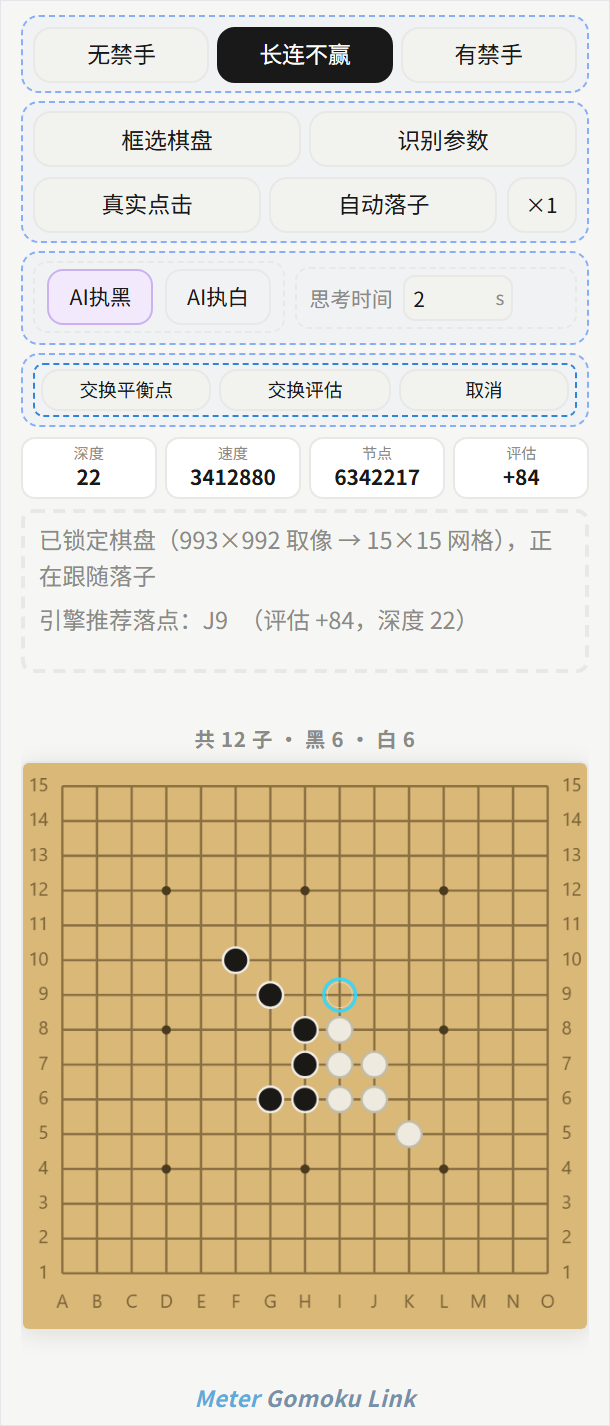
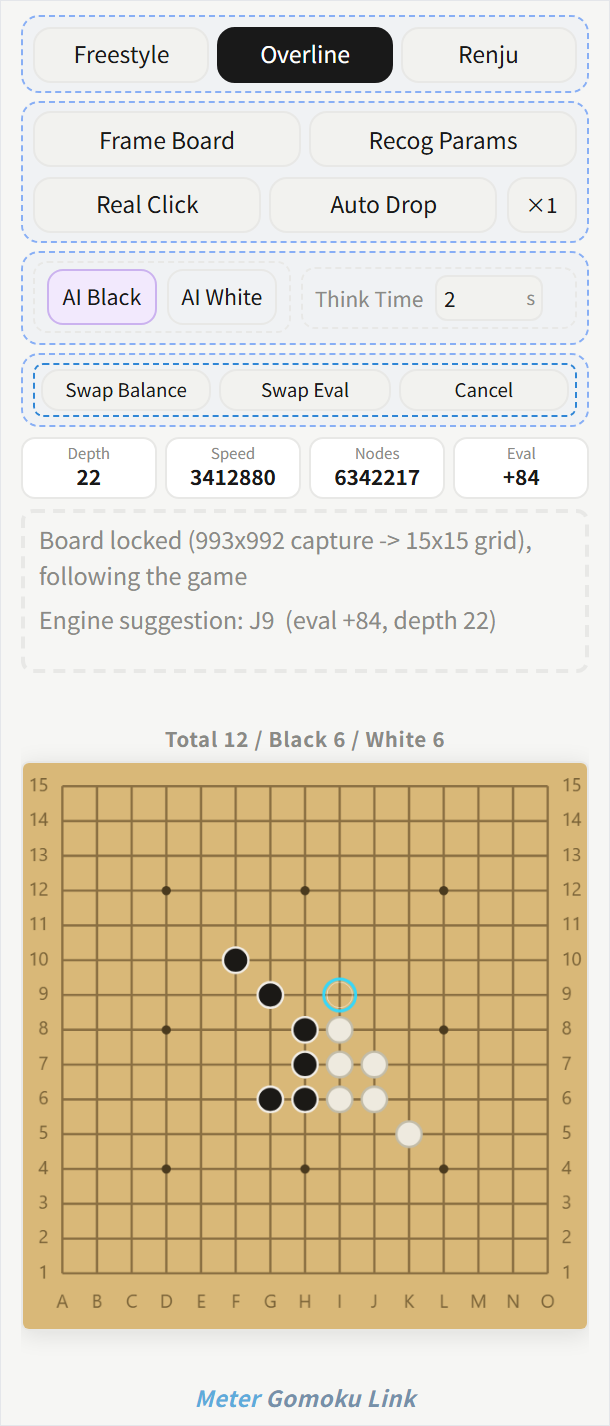
docs: English README free of Chinese, English UI screenshots
- README.md: all bilingual UI labels reduced to English-only
  (e.g. '连线 / Link' -> 'Link'), language switcher link now 'Chinese'.
- docs/images: all 7 screenshots re-rendered with the UI in English
  (lang=en); static [data-i18n] labels applied + language toggle shown
  as 'CN' for the shots.
- docs/images_zh: the Chinese-UI screenshots kept for README_zh.md,
  whose image links now point there.

diff --git a/README.md b/README.md
@@ -1,6 +1,6 @@
 # Meter Gomoku — Line Version
 
-**English** | [中文](README_zh.md)
+**English** | [Chinese](README_zh.md)
 
 A Windows desktop assistant for Gomoku / Renju. It **reads the board you are already playing on** — any third-party client, web board or emulator — keeps a mirror of the position, asks the bundled Rapfi engine for the best move, and can play it for you. This repository is the **Line (screen-recognition) version**: screen capture + always-on-top overlay + simulated clicks. It is not a stand-alone trainer.
 
@@ -27,11 +27,11 @@ A Windows desktop assistant for Gomoku / Renju. It **reads the board you are alr
 
 1. Run `Release/Meter Gomoku_Setup4.42.exe` and finish the installer.
 2. Start the app, then open your Gomoku client (or a web board) and get to the game screen.
-3. In the main window click **连线 / Link** in the top bar — a small window appears.
-4. Click **框选棋盘 / Frame Board** and drag a rectangle around the board *including its outer border*.
-5. Choose **AI 执黑 / AI 执白** (the side the engine plays), the rule and the thinking time, then switch on **自动落子 / Auto Drop**.
+3. In the main window click **Link** in the top bar — a small window appears.
+4. Click **Frame Board** and drag a rectangle around the board *including its outer border*.
+5. Choose **AI Black / AI White** (the side the engine plays), the rule and the thinking time, then switch on **Auto Drop**.
 
-The mirror board in the link window starts following the game immediately. If your client ignores simulated clicks, turn on **真实点击 / Real Click** (it borrows the physical cursor — see §5).
+The mirror board in the link window starts following the game immediately. If your client ignores simulated clicks, turn on **Real Click** (it borrows the physical cursor — see §5).
 
 ---
 
@@ -41,20 +41,20 @@ The mirror board in the link window starts following the game immediately. If yo
 
 | Area | What is there |
 |---|---|
-| **Top bar** | 连线 (open the link window) · 识图 (screen recognition) · 复盘 (review) · 历史 (history) · 关于 (about) · EN/中 (language) · 颜色 (palette) |
+| **Top bar** | Link (opens the link window) · Recognition (screen recognition) · Review · History · About · Language (toggles the UI between English and Chinese) · Palette |
 | **Left dock** | Engine dashboard (depth / speed / nodes / time / eval / best move) and the evaluation curve (black and white series, vertical axis auto-scales to about ±1200) |
 | **Board** | 15×15 board with coordinates on all four sides and a continue/pause key in the middle. Analysis marks are drawn straight on it |
-| **Right dock** | Cards: 对局设置 (game setup), 计算评估 (calculation & evaluation), 引擎仪表盘 (engine dashboard). Drag by the title bar to reorder, fold with the small dash, close with ✕. The layout is remembered |
-| **Bottom bar** | 分析计算 (live analysis) · ◀ ▶ (step through moves) · 重新开始 · 保存局面 · undo / redo / swap colours · AI 执子 (AI-side popover) · 设置 (add a card) |
+| **Right dock** | Cards: Game setup, Calculation & evaluation, Engine dashboard. Drag by the title bar to reorder, fold with the small dash, close with ✕. The layout is remembered |
+| **Bottom bar** | Live analysis · ◀ ▶ (step through moves) · Restart · Save position · undo / redo / swap colours · AI side (popover) · Settings (add a card) |
 
 ### Game setup
 
 ![Game setup card](docs/images/setup.png)
 
-* **Mode** — 对弈 (play) · 摆盘 (place stones) · 残局 (endgame problem).
-* **AI side** — 黑 / 白; both switches off means you play both sides.
+* **Mode** — Play · Place stones · Endgame problem.
+* **AI side** — Black / White; both switches off means you play both sides.
 * **Think time** — 0.2 s to 300 s. The same value is used by the link window; the two are always in step.
-* **Rule** — 无禁手 (freestyle) · 无禁手 · 长连不赢 (overline does not win) · 连珠 (Renju, forbidden moves).
+* **Rule** — Freestyle · Overline (a six-in-a-row does not win) · Renju (forbidden moves).
 * **Engine** — thread count and hash size. The maximum thread count is chosen from the real topology (physical cores minus two, so recognition and the system keep breathing room); hash is memory-adaptive. Both are persisted, so the next launch starts where you left off.
 * **Board display** — move numbers on stones, hover preview box.
 * **Position code** — copy / paste / load the whole position as one string.
@@ -65,15 +65,15 @@ The mirror board in the link window starts following the game immediately. If yo
 
 | Function | What it does |
 |---|---|
-| **计算 / Calc** | One deep search of the current position; the best point is marked on the board. The key toggles to 停止计算 |
-| **多点分析 / Multi-point** | Returns *N* candidates (2–8, default 4); each ring carries its rank and score |
-| **平衡点 / Balance** | Runs the engine's native **paired** balance search and returns points where neither side has a clear edge, together with the balance engine's own score. `\|eval\| ≤ 50` is what counts as balanced (ScalingFactor = 200, so win rate = sigmoid(eval/200)) |
-| **点数 / Points** | How many balance points to return (1–6). An empty board is fixed at 3 — Black 1 at the centre, White 2 and Black 3 given jointly by one paired search |
-| **扫描防守 / Defend scan** | Scores every empty point in a 9×9 neighbourhood: **W = moves to win, L = moves to lose**, badge colour runs from teal (safe) to red (dangerous). Re-scans automatically after each move |
-| **前瞻 / Lookahead, VCF, VCT** | Forced-line tools. Lookahead plays the position forward until five in a row actually appears; VCF only uses consecutive fours; VCT adds live threes |
-| **教练 / Coach** | Four-colour square hints while it is your turn (best / good / fair / poor); they vanish when you move |
-| **分析计算 / Live analysis** | Keeps deepening in the background and lays out the engine's current list; your move or undo restarts the session |
-| **清除标记 / Clear marks** | Erases every mark this card leaves on the board, without touching the position |
+| **Calc** | One deep search of the current position; the best point is marked on the board. The key toggles to Stop |
+| **Multi-point** | Returns *N* candidates (2–8, default 4); each ring carries its rank and score |
+| **Balance** | Runs the engine's native **paired** balance search and returns points where neither side has a clear edge, together with the balance engine's own score. `\|eval\| ≤ 50` is what counts as balanced (ScalingFactor = 200, so win rate = sigmoid(eval/200)) |
+| **Points** | How many balance points to return (1–6). An empty board is fixed at 3 — Black 1 at the centre, White 2 and Black 3 given jointly by one paired search |
+| **Defend scan** | Scores every empty point in a 9×9 neighbourhood: **W = moves to win, L = moves to lose**, badge colour runs from teal (safe) to red (dangerous). Re-scans automatically after each move |
+| **Lookahead, VCF, VCT** | Forced-line tools. Lookahead plays the position forward until five in a row actually appears; VCF only uses consecutive fours; VCT adds live threes |
+| **Coach** | Four-colour square hints while it is your turn (best / good / fair / poor); they vanish when you move |
+| **Live analysis** | Keeps deepening in the background and lays out the engine's current list; your move or undo restarts the session |
+| **Clear marks** | Erases every mark this card leaves on the board, without touching the position |
 
 ### Engine dashboard
 
@@ -83,19 +83,19 @@ The mirror board in the link window starts following the game immediately. If yo
 
 ---
 
-## 4. Screen recognition (识图)
+## 4. Screen recognition
 
 ![Recognition window](docs/images/vision.png)
 
-Open it from **识图** in the top bar. It turns a screenshot into a position code.
+Open it from **Recognition** in the top bar. It turns a screenshot into a position code.
 
-1. **上传图片 / Upload** (multi-select, up to 150) or **屏幕截图 / Screenshot** to capture a region.
-2. **裁剪 / Crop** — the crop box snaps to the board and leaves about 1/30 of the board as margin, so the outermost stone stays complete.
-3. **识别 / Recognize** — the result becomes a position code that can be copied, or loaded straight into practice.
-4. **修改 / Edit** — swap Black and White (click one of each), delete stones, add Black or White stones; `Ctrl+Z` undoes.
-5. **VC 模式 / VC mode** — for mate problems: Black and White counts may differ, adding stones is unlimited, and loading it switches to Endgame mode with the attacking side preset.
+1. **Upload** (multi-select, up to 150) or **Screenshot** to capture a region.
+2. **Crop** — the crop box snaps to the board and leaves about 1/30 of the board as margin, so the outermost stone stays complete.
+3. **Recognize** — the result becomes a position code that can be copied, or loaded straight into practice.
+4. **Edit** — swap Black and White (click one of each), delete stones, add Black or White stones; `Ctrl+Z` undoes.
+5. **VC mode** — for mate problems: Black and White counts may differ, adding stones is unlimited, and loading it switches to Endgame mode with the attacking side preset.
 
-**识别参数 / Recog Params** lays six thresholds directly on the panel and applies them while you drag:
+**Recog Params** lays six thresholds directly on the panel and applies them while you drag:
 
 | Parameter | Meaning |
 |---|---|
@@ -121,17 +121,17 @@ The link window is a separate top-level window, 304×712, always on top. It does
 
 | Control | What it does |
 |---|---|
-| **规则三键** | Freestyle / Overline / Renju — switches the endgame and forbidden-move rules used by the link window |
-| **框选棋盘 / Frame Board** | Drag a rectangle over the board on screen; recognition starts once the frame is set |
-| **识别参数 / Recog Params** | Swaps the button area for the six thresholds, applied live (see §6) |
-| **真实点击 / Real Click** | Uses the physical mouse cursor. **Off by default** — only needed for clients that accept nothing but real mouse input. While on it takes over your cursor |
-| **自动落子 / Auto Drop** | Thinks as soon as the opponent's move is seen and plays for you |
+| **Rule buttons** | Freestyle / Overline / Renju — switches the endgame and forbidden-move rules used by the link window |
+| **Frame Board** | Drag a rectangle over the board on screen; recognition starts once the frame is set |
+| **Recog Params** | Swaps the button area for the six thresholds, applied live (see §6) |
+| **Real Click** | Uses the physical mouse cursor. **Off by default** — only needed for clients that accept nothing but real mouse input. While on it takes over your cursor |
+| **Auto Drop** | Thinks as soon as the opponent's move is seen and plays for you |
 | **×1 / ×2 / ×3** | Clicks per move |
-| **AI 执黑 / AI 执白** | Mutually exclusive; the choice is mirrored into the main window immediately |
-| **思考时间 / Think time** | 0.2–300 s, one shared value |
-| **交换平衡点 / Swap Balance** | Opening balance points (see below) |
-| **交换评估 / Swap Eval** | Independent of the above: scores the current swap position with the *playing* engine, to help you decide whether swapping is worth it |
-| **取消 / Cancel** | Stops an in-flight balance / evaluation and clears the marks already drawn |
+| **AI Black / AI White** | Mutually exclusive; the choice is mirrored into the main window immediately |
+| **Think time** | 0.2–300 s, one shared value |
+| **Swap Balance** | Opening balance points (see below) |
+| **Swap Eval** | Independent of the above: scores the current swap position with the *playing* engine, to help you decide whether swapping is worth it |
+| **Cancel** | Stops an in-flight balance / evaluation and clears the marks already drawn |
 
 ### Status area
 
@@ -157,7 +157,7 @@ On an **empty board** the app uses the official opening book: the engine returns
 | 3 stones (5 moves) | 2 | 1 Black, 1 White | One **paired** balance search returns both points together |
 | More than 5 stones | — | — | Past the swap window; the app says so |
 
-Marks live inside the recognition frame: blue/purple rings with a number for the order of play, and they disappear once you have played those stones. Pressing **交换平衡点** cancels any selected AI side (they would interfere); if Auto Drop is on, the points are played in order automatically.
+Marks live inside the recognition frame: blue/purple rings with a number for the order of play, and they disappear once you have played those stones. Pressing **Swap Balance** cancels any selected AI side (they would interfere); if Auto Drop is on, the points are played in order automatically.
 
 ---
 
@@ -168,9 +168,9 @@ Marks live inside the recognition frame: blue/purple rings with a number for the
 One click replaces the button area with the six thresholds; the statistics row folds away and the text box below explains each parameter.
 
 * Dragging or typing applies the value **immediately** and also saves it, so the next launch remembers it.
-* **通用 / General** loads the defaults (200 / 50 / 96 / 33 / 96 / 33) — good for most boards.
-* **存档 / Save** and **读档 / Load** store the six values under a name (up to 50 presets, drawer with Load / All / Delete / Undo).
-* **应用 / Apply** saves and folds the panel; **取消 / Cancel** restores the values that were last applied, in the page *and* in the host.
+* **General** loads the defaults (200 / 50 / 96 / 33 / 96 / 33) — good for most boards.
+* **Save** and **Load** store the six values under a name (up to 50 presets, drawer with Load / All / Delete / Undo).
+* **Apply** saves and folds the panel; **Cancel** restores the values that were last applied, in the page *and* in the host.
 
 ---
 
@@ -178,9 +178,9 @@ One click replaces the button area with the six thresholds; the statistics row f
 
 | Rule | Five in a row | Forbidden |
 |---|---|---|
-| 无禁手 Freestyle | Wins, overline included | none |
-| 无禁手 · 长连不赢 Overline | Wins; **six or more in a row does not win** | none |
-| 连珠 Renju | Wins | overline, double-four, double-three (four-three is legal) |
+| Freestyle | Wins, overline included | none |
+| Overline | Wins; **six or more in a row does not win** | none |
+| Renju | Wins | overline, double-four, double-three (four-three is legal) |
 
 ---
 
@@ -198,11 +198,11 @@ One click replaces the button area with the six thresholds; the statistics row f
 | Symptom | Cause | Fix |
 |---|---|---|
 | The board is found but no stones appear | Frame is too tight, or the stones have very low contrast | Frame the board **with its border**, then try lower black/white offsets |
-| Too many or too few stones of one colour | Thresholds not tuned for this theme | Use 识别参数: black/white offset for the grey threshold, percent for the in-cell coverage |
-| Automatic dropping does nothing | The client only accepts real mouse input | Turn on **真实点击**; keep the window position fixed (the frame is geometry-locked) |
+| Too many or too few stones of one colour | Thresholds not tuned for this theme | Use Recog Params: set the black/white offset for the grey threshold, percent for the in-cell coverage |
+| Automatic dropping does nothing | The client only accepts real mouse input | Turn on **Real Click**; keep the window position fixed (the frame is geometry-locked) |
 | The window is blank on start | Security software quarantined the UI package | Whitelist the install folder and reinstall |
 | 360 / antivirus flags the installer | Unsigned executable that captures the screen | Allow it, or sign the build |
-| Board mirror stops following | The board moved, or the window was resized | Click **框选棋盘** again |
+| Board mirror stops following | The board moved, or the window was resized | Click **Frame Board** again |
 
 ---
 
